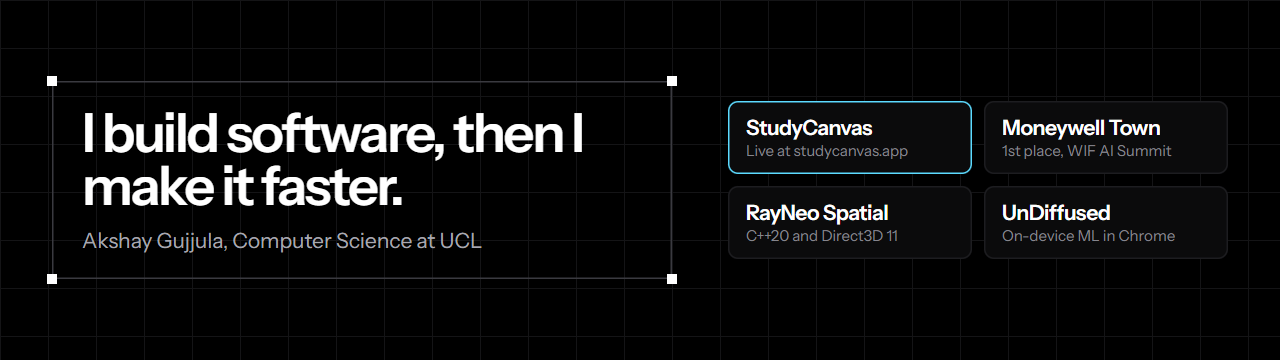
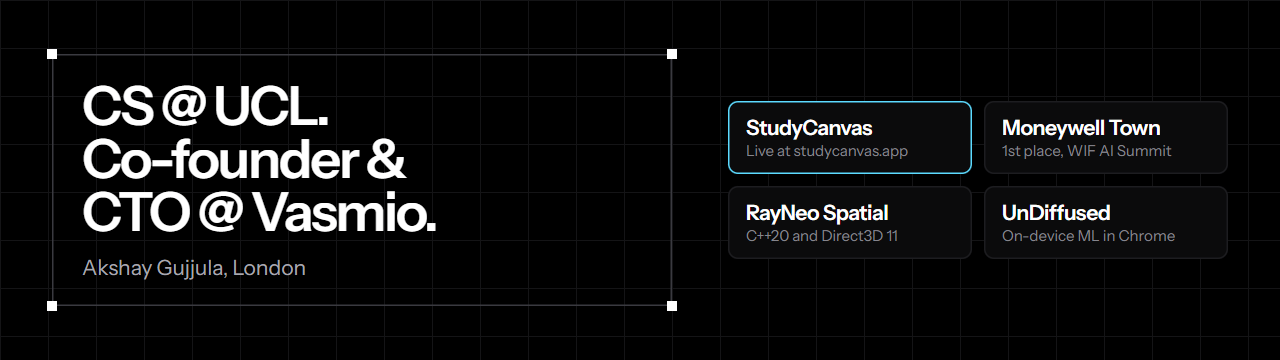
New hero headline: CS @ UCL, co-founder and CTO @ Vasmio
Replace the old tagline across the hero, footer, meta description,
link-preview card and README banner. The hero description now names
Vasmio as the company behind Moneywell Town, and its width follows the
headline's widest line so it sits in fewer lines at every size.

diff --git a/tests/e2e/site.spec.ts b/tests/e2e/site.spec.ts
@@ -38,7 +38,10 @@ test.describe("home page", () => {
     test.skip(isMobile, "the flight only runs on wide screens");
     await page.goto("/");
     const zoom = page.locator("[data-zoom]");
-    await expect(zoom).toHaveText("100%");
+    // The opening shot sits close up; the intro's height decides whether it is exactly 100%.
+    await expect(async () => {
+      expect(Number.parseInt((await zoom.textContent()) ?? "", 10)).toBeGreaterThan(90);
+    }).toPass();
     await page.evaluate(() => {
       const track = document.querySelector<HTMLElement>("[data-hero]");
       if (track) window.scrollTo(0, (track.offsetHeight - innerHeight) * 0.47);
@@ -52,7 +55,8 @@ test.describe("home page", () => {
     page,
   }) => {
     await page.goto("/");
-    const node = page.locator("[data-hero]").getByRole("link", { name: /Moneywell Town/ });
+    // The map node, not the Moneywell Town link in the intro's description.
+    const node = page.locator('[data-hero] a[data-node="moneywell-town"]');
     await node.focus();
     await expect(node).toBeInViewport();
     await node.click();
@@ -232,7 +236,7 @@ test.describe("other pages", () => {
   test("the footer signs off and links to the privacy policy and terms", async ({ page }) => {
     await page.goto("/");
     const footer = page.getByRole("contentinfo");
-    await expect(footer.getByText("then I make it faster.")).toBeVisible();
+    await expect(footer.getByText("Co-founder & CTO @ Vasmio.")).toBeVisible();
     await expect(footer.getByText("No cookies, no analytics")).toBeVisible();
     const nav = page.getByRole("navigation", { name: "Site information" });
     await nav.getByRole("link", { name: "Privacy" }).click();

diff --git a/src/data/profile.ts b/src/data/profile.ts
@@ -9,7 +9,7 @@ export const profile = {
   location: "London, UK",
   email: "akshayreddyg07@gmail.com",
   summary:
-    "Second-year Computer Science student at UCL, graduating 2028, building full-stack, AI and performance-sensitive systems.",
+    "Second-year Computer Science student at UCL and co-founder and CTO of Vasmio, the startup behind Moneywell Town.",
   links: {
     github: "https://github.com/AkshayReddyGujjula",
     linkedin: "https://www.linkedin.com/in/akshayreddygujjula/",

diff --git a/README.md b/README.md
@@ -1,4 +1,4 @@
-<a href="https://akshaygujjula.com"><img alt="I build software, then I make it faster. Akshay Gujjula, Computer Science at UCL." src="docs/readme/banner.png"></a>
+<a href="https://akshaygujjula.com"><img alt="CS @ UCL. Co-founder & CTO @ Vasmio. Akshay Gujjula, London." src="docs/readme/banner.png"></a>
 
 I'm a second-year Computer Science student at UCL. I build full-stack, AI and performance-sensitive systems, and I like getting them in front of real people: ten students use StudyCanvas every week, and Moneywell Town won the Work in Fintech AI Summit hackathon.
 
